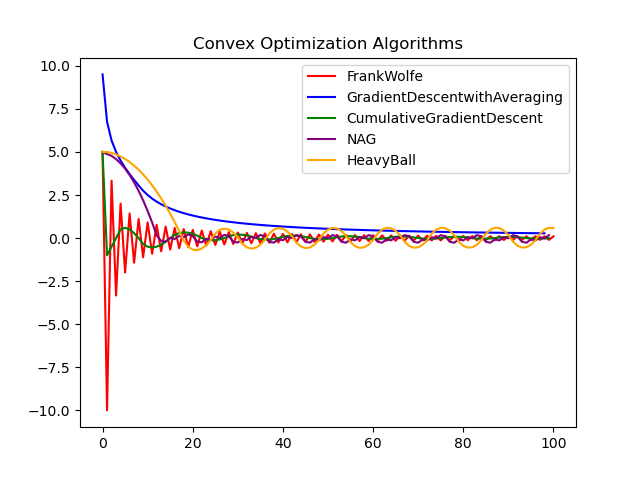
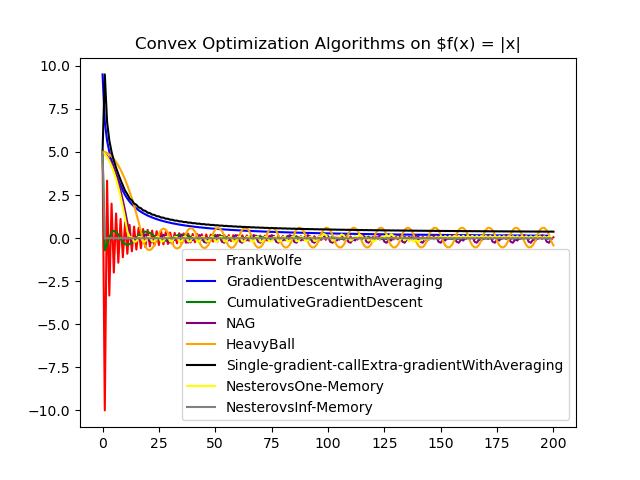
more general 1-memory function

diff --git a/convex_optimization_algorithms.py b/convex_optimization_algorithms.py
@@ -3,27 +3,36 @@ import matplotlib.pyplot as plt
 import math
 from convex_functions import *
 
+def projection(x, bounds):
+    # projection into hypercube
+    # for n dimensional x, you will have a list of n sets of bounds
+    for i in range(len(bounds)): 
+        x[i] = np.minimum(np.maximum(x[i], bounds[i][0]), bounds[i][1])
+    return x
+
 # Gradient descent with averaging (different rate depending on smooth or not)
 # (equiv to OMD + bestresp)
-def gradDescentAveraging(f, T, w_0, L=2): # ASSUMING SMOOTH
+def gradDescentAveraging(f, T, w_0, L=2, xbounds=[[-10,10]]): # ASSUMING SMOOTH
     w_ts = []
     w_ts.append(w_0)
     avg_ws = []
     eta = 1/(2*L)
     for t in range(1,T): 
-        w_ts.append(w_ts[-1] - eta*f.grad(w_ts[-1]))
+        #w_ts.append(w_ts[-1] - eta*f.grad(w_ts[-1]))
+        w_ts.append(projection(w_ts[-1] - eta*f.grad(w_ts[-1]), xbounds))
         avg_ws.append((1/t)*np.sum(w_ts))
     return avg_ws
 
 # Cumulative gradient descent
-def cumulativeGradientDescent(f, T, w_0, R, G):
+def cumulativeGradientDescent(f, T, w_0, R, G, xbounds=[[-10,10]]):
     eta = (R/G)/math.sqrt(T)
     w_ts = []
     w_ts.append(w_0)
     grad_sum = f.grad(w_0)
     for t in range(1,T):
         w_t = (1-(1/t))*w_ts[-1] - (1/t)*eta*grad_sum
-        w_ts.append(w_t)
+        #w_ts.append(w_t)
+        w_ts.append(projection(w_t, xbounds))
         grad_sum += f.grad(w_t)
     return w_ts
 
@@ -41,8 +50,8 @@ def frankWolfe(f, T, w_0, xbounds):
 
 
 # Single-call extra-gradient with averaging
-'''
-def singleGradientCallExtraGradientWithAveraging(f, T, w_0, L=2, phi, alpha_ts):
+# SPECIFIC TO EXPONENTIAL FUNCTION WITH L2 NORM AS 
+def singleGradientCallExtraGradientWithAveraging(f, T, w_0, L=2, xbounds=[[-10,10]]):
     gamma = 1/L
     w_halfs = []
     w_halfs.append(w_0)
@@ -52,17 +61,16 @@ def singleGradientCallExtraGradientWithAveraging(f, T, w_0, L=2, phi, alpha_ts):
     avg_ws.append(w_0)
     # PSEUDOCODE
     for t in range(0,T):
-        w_t = argmin(alpha_ts[t]*np.dot(w, f.grad(w_ts[-1])) + bregmanDivergence(phi, w ,w_halfs[-1]))
-        w_ts.append(w_t)
-        w_t_12 = argmin(alpha_ts[t]*np.dot(w, f.grad(w_ts[-1])) + bregmanDivergence(phi, w ,w_halfs[-1]))
-        w_halfs.append(w_t_12)
-        avg_ws.append((1/t+1)*np.sum(w_ts))
-    return avg_w_ts
-'''
+        w_t = -gamma*f.grad(w_ts[-1]) + w_halfs[-1] #argmin(alpha_ts[t]*np.dot(w, f.grad(w_ts[-1])) + bregmanDivergence(phi, w ,w_halfs[-1]))
+        w_ts.append(projection(w_t, xbounds))
+        w_t_12 = -gamma*f.grad(w_ts[-1]) + w_halfs[-1] #argmin(alpha_ts[t]*np.dot(w, f.grad(w_ts[-1])) + bregmanDivergence(phi, w ,w_halfs[-1]))
+        w_halfs.append(projection(w_t_12, xbounds))
+        avg_ws.append((1/(t+1))*np.sum(w_ts))
+    return avg_ws
 
 # Nesterov's 1-memory method PSEUDOCODE!!!
-'''
-def nesterovOneMemory(f, T, w_0, phi, L=2):
+
+def nesterovOneMemory(f, T, w_0, phi, L=2, xbounds=[[-10,10]]):
     w_ts = []
     w_ts.append(w_0)
     v_ts = []
@@ -73,34 +81,37 @@ def nesterovOneMemory(f, T, w_0, phi, L=2):
         gamma_t = t/(4*L)
         z_t = (1-beta_t)*w_ts[-1] + beta_t*v_ts[-1]
         z_ts.append(z_t)
-        v_t = argmin(gamma_t*np.dot(f.grad(z_t), x) + bregmanDivergence(phi, x, v_ts[-1]))
-        v_ts.append(v_t)
-        w_t = (1-beta_t)*w[t-1]+ beta_t*v_ts[-1]
+        q = phi.grad(v_ts[-1]) - gamma_t*f.grad(z_ts[-1])
+        v_t = phi.fenchel_grad(q)
+        #v_t = v_ts[-1] - gamma_t*f.grad(z_t[-1])#argmin(gamma_t*np.dot(f.grad(z_t), x) + bregmanDivergence(phi, x, v_ts[-1]))
+        v_ts.append(projection(v_t, xbounds))
+        w_t = (1-beta_t)*w_ts[-1]+ beta_t*v_ts[-1]
         w_ts.append(w_t)
-'''
+    return w_ts
 
 # Nesterov's infinity-memory method PSEUDOCODE
-'''
-def nesterovInfMemory(f, T, w_0, R, L=2):
+def nesterovInfMemory(f, T, w_0, L=8, xbounds=[[-10,10]]):
     w_ts = []
     w_ts.append(w_0)
     v_ts = []
     v_ts.append(w_0)
     z_ts = []
+    sums = 0
     for t in range(1,T):
         beta_t = 2/(t+1)
         gamma_t = t/(4*L)
         z_t = (1-beta_t)*w_ts[-1] + beta_t*v_ts[-1]
         z_ts.append(z_t)
-        v_t = argmin(sum_{s=1}^t gamma_s*np.dot(f.grad(z_s), x) + R.f(x))
-        v_ts.append(v_t)
-        w_t = (1-beta_t)*w[t-1]+ beta_t*v_ts[-1]
+        sums -= gamma_t*f.grad(z_ts[-1])
+        vt = projection(sums, xbounds) #argmin(sum_{s=1}^t gamma_s*np.dot(f.grad(z_s), x) + R.f(x))
+        v_ts.append(vt)
+        w_t = (1-beta_t)*w_ts[-1]+ beta_t*v_ts[-1]
         w_ts.append(w_t)
-'''
+    return w_ts
 
 # Nesterov's first acceleration method
 # Unconstrained Nesterov Accelerated Gradient Descent (Algorithm 12)
-def NAG(f, T, w_0, L=2):
+def NAG(f, T, w_0, L=2, xbounds=[[-10,10]]):
     # NEED TO FIX
     w_ts = []
     w_ts.append(w_0)
@@ -110,20 +121,22 @@ def NAG(f, T, w_0, L=2):
         theta_t = t/(2*(t+1)*L)
         beta_t = (t-2)/(t+1)
         w_t = z_s[-1] - theta_t * f.grad(z_s[-1])
-        w_ts.append(w_t)
+        #w_ts.append(w_t)
+        w_ts.append(projection(w_t, xbounds))
         z_t = w_ts[-1] + beta_t*(w_ts[-1] - w_ts[-2])
         z_s.append(z_t)
     return w_ts
 
 # Heavy Ball Method
-def heavyBall(f, T, w_0, L=2):
+def heavyBall(f, T, w_0, L=2, xbounds=[[-10,10]]):
     w_ts = [w_0, w_0]
     for t in range(1,T): 
         eta_t = t/(4*(t+1)*L)
         beta_t = (t-2)/(t+1)
         v_t = w_ts[-1] - w_ts[-2]
         w_t = w_ts[-1] - eta_t * f.grad(w_ts[-1]) + beta_t*v_t
-        w_ts.append(w_t)
+        #w_ts.append(w_t)
+        w_ts.append(projection(w_t, xbounds))
     return w_ts
 
 # Nesterov's method (REQUIRES STRONG CONVEXITY AND SMOOTHNESS)
@@ -131,9 +144,10 @@ def heavyBall(f, T, w_0, L=2):
 
 if __name__ == "__main__":
     # Franke-Wolfe Training loop
-    T = 100
+    T = 200
     xbounds = [-10,10]
-    f = SqrtOneXSquared()
+    f = AbsoluteValueFunction() #2,2)#PowerFunction(2,2)
+    phi = L2Reg()
 
     x_0 = np.array([5], dtype='float64')
     print(x_0)
@@ -143,13 +157,20 @@ if __name__ == "__main__":
     x_ts_cumulativeGD = cumulativeGradientDescent(f, T, x_0, R=10, G=1)
     x_ts_NAG = NAG(f, T, x_0, L=2)
     x_ts_heavyball = heavyBall(f, T, x_0, L=2)
+    x_ts_sgc_eg = singleGradientCallExtraGradientWithAveraging(f, T, x_0)
+    x_ts_n_onemem = nesterovOneMemory(f,T,x_0, phi=phi)
+    x_ts_n_infmem = nesterovInfMemory(f,T,x_0)
 
     plt.plot(x_ts_FW, color='red', label="FrankWolfe")
     plt.plot(x_ts_GDAvg, color='blue', label="GradientDescentwithAveraging")
     plt.plot(x_ts_cumulativeGD, color='green', label="CumulativeGradientDescent")
     plt.plot(x_ts_NAG, color='purple', label="NAG")
     plt.plot(x_ts_heavyball, color='orange', label="HeavyBall")
+    # SPECIFIC FOR EXP!
+    plt.plot(x_ts_sgc_eg, color='black', label="Single-gradient-callExtra-gradientWithAveraging")
+    plt.plot(x_ts_n_onemem, color='yellow', label="NesterovsOne-Memory")
+    plt.plot(x_ts_n_infmem, color='gray', label="NesterovsInf-Memory")
 
-    plt.title("Convex Optimization Algorithms")
+    plt.title("Convex Optimization Algorithms on $f(x) = |x|")
     plt.legend()
     plt.show()

diff --git a/convex_functions.py b/convex_functions.py
@@ -11,6 +11,22 @@ def find_s(x_t, xbounds=(-10,10)):
 def bregmanDivergence(phi, x, y):
     return phi.f(x)-phi.f(y) - np.dot(phi.grad(y), x-y)
 
+class L2Reg:
+    def __init__(self):
+        self.name="Power Function $f(x)=1/2 ||x||^2$"
+
+    def f(self,x, t=1):
+        return (1/2)* np.pow(np.linalg.norm(x, ord=2), 2) * np.sqrt(t)
+    
+    def grad(self, x):
+        return x
+
+    def fenchel(self, theta): 
+        return (1/2) * np.power(np.linalg.norm(theta, ord = 2), 2)
+
+    def fenchel_grad(self, x):
+        return x
+
 
 #############
 # FUNCTIONS # 

diff --git a/algorithm_comparison.py b/algorithm_comparison.py
@@ -33,8 +33,6 @@ def FW_Recovery():
     # ---------------------------- RUN FENCHEL GAME ----------------------------
 
     ftrl = FTRL(f = f_game, d=d, weights=alpha_t, eta=0, z0=0)
-
-    
     
     # --------------------------------------------------------------------------
 
@@ -56,11 +54,9 @@ def FW_Recovery():
     plt.show()
 
 
-
 if __name__ == '__main__':
 
     #print("Salve Munde")
-
     #FW_Recovery()
 
     T = 100
